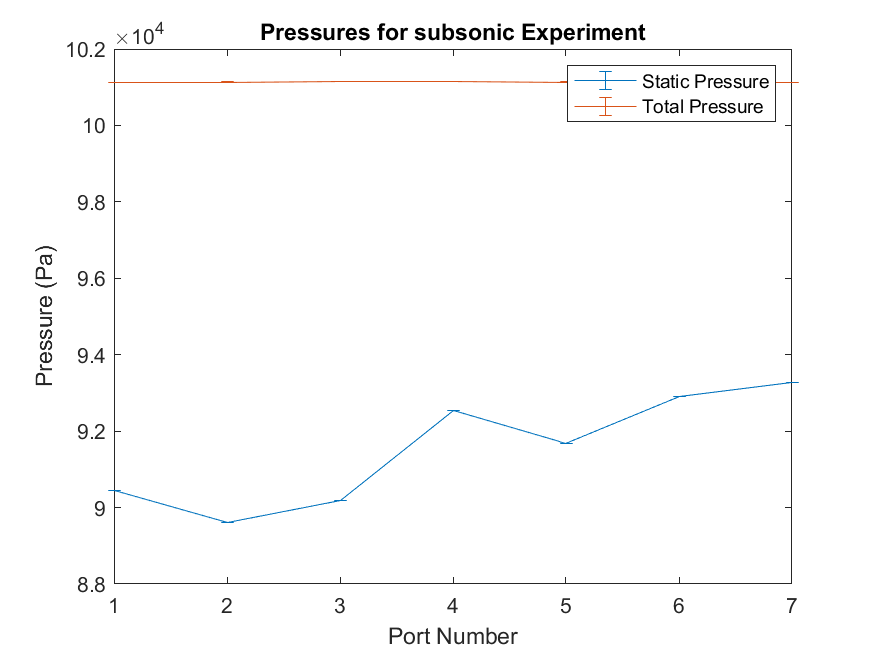
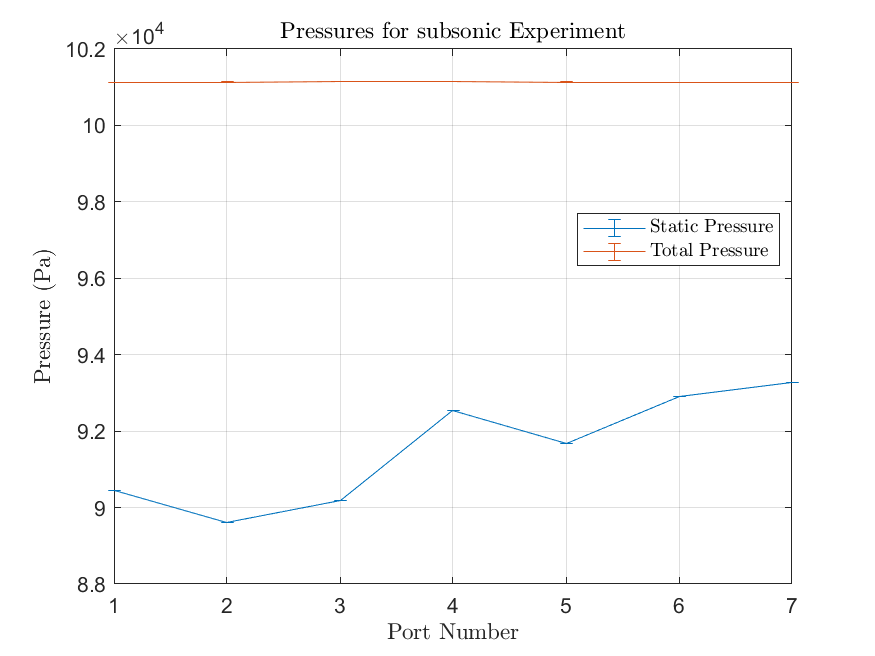
ANALYSIS: Fix supersonic experimental, add subsonic pressure comparison, restyle figures

diff --git a/code/main.m b/code/main.m
@@ -9,17 +9,22 @@ addpath('preprocessing')
 %% Plot Raw Pressures and Uncertainties
 trial = "subsonic"; % Sub- or super-sonic
 
-pressures = get_pressures(trial);
-uncertainties = get_uncertainties(trial);
+pressures = get_pressures("subsonic");
+uncertainties = get_uncertainties("subsonic");
 
 figure
 errorbar(pressures(1,:), uncertainties(1,:))
 hold on
 errorbar(pressures(2,:), uncertainties(2,:))
-xlabel("Port Number")
-ylabel("Pressure (Pa)")
-legend("Static Pressure", "Total Pressure")
-title(sprintf("Pressures for %s Experiment", trial));
+xlabel("Port Number",...
+    "interpreter", "latex")
+ylabel("Pressure (Pa)",...
+    "interpreter", "latex")
+legend("Static Pressure", "Total Pressure",'Location','best',...
+    "interpreter", "latex")
+title(sprintf("Pressures for %s Experiment", trial),...
+    "interpreter", "latex")
+grid on
 saveas(gcf, '..\latex\figures\subsonic_pressure_distributions.png')
 
 trial = "supersonic"; % Sub- or super-sonic
@@ -31,10 +36,15 @@ figure
 errorbar(pressures(1,:), uncertainties(1,:))
 hold on
 errorbar(pressures(2,:), uncertainties(2,:))
-xlabel("Port Number")
-ylabel("Pressure (Pa)")
-legend("Static Pressure", "Total Pressure")
-title(sprintf("Pressures for %s Experiment", trial));
+xlabel("Port Number",...
+    "interpreter", "latex")
+ylabel("Pressure (Pa)",...
+    "interpreter", "latex")
+legend("Static Pressure", "Total Pressure",'Location','best',...
+    "interpreter", "latex")
+title(sprintf("Pressures for %s Experiment", trial),...
+    "interpreter", "latex")
+grid on
 saveas(gcf, '..\latex\figures\supersonic_pressure_distributions.png')
 
 clear % Clear all variables.
@@ -58,20 +68,40 @@ sub_mach_exp = subsonic_experimental(sub_pressure, gamma);
 sub_mach_exp_err = subsonic_experimental_err(sub_pressure, error, gamma);
 
 % Get subsonic theoretical mach and uncertainties.
-[sub_mach_thy, sub_mach_thy_err] = ...
+[sub_mach_thy, sub_mach_thy_err, sub_pressure_thy, sub_pressure_thy_err] = ...
     subsonic_theoretical(sub_pressure, error, gamma);
 
-% Plot data
+% Plot Static Pressure Distribution
+figure
+errorbar(sub_pressure(1, :), error (1,:))
+hold on
+errorbar(sub_pressure_thy, sub_pressure_thy_err)
+title({'Experimental and Theoretical', 'Static Pressures (Subsonic)'},...
+    "interpreter", "latex")
+xlabel("Port Number",...
+    "interpreter", "latex")
+ylabel("Pressure (Pa)",...
+    "interpreter", "latex")
+legend('Experimental','Theoretical','Location','best',...
+    "interpreter", "latex")
+grid on
+saveas(gcf, '..\latex\figures\subsonic_pressure_distribution_exp_vs_thy.png')
+
+% Plot Mach Number Distribution
 figure
 errorbar(sub_mach_exp, sub_mach_exp_err)
 hold on
 errorbar(sub_mach_thy, sub_mach_thy_err)
-title('Experimental and Theoretical Mach Comparison (Subsonic)')
-xlabel("Port Number")
-ylabel("Mach Number")
-legend("Experimental", "Theoretical")
+title('Experimental and Theoretical Mach Comparison (Subsonic)',...
+    "interpreter", "latex")
+xlabel("Port Number",...
+    "interpreter", "latex")
+ylabel("Mach Number",...
+    "interpreter", "latex")
+legend("Experimental", "Theoretical",...
+    "interpreter", "latex")
+grid on
 saveas(gcf, '..\latex\figures\subsonic_mach_distributions.png')
-hold off
 clear % Clear all variables.
 
 %% Supersonic Theoretical and Experimental Data, Plots, and Uncertainties.
@@ -83,36 +113,43 @@ error = get_uncertainties('supersonic');
 % Initialize constants.
 gamma = 1.4; % Ratio of specific heats.
 
-sup_pressure(:,1)
-
 % Get subsonic theoretical mach and uncertainties.
 [sup_mach_thy, sup_mach_thy_err, sup_pressure_thy, sup_pressure_thy_err] = ...
     supersonic_theoretical(sup_pressure(:,1), error(:,1), gamma);
 
+% Plot Static Pressure Distribution
 figure
-plot(sup_pressure(1, :))
+errorbar(sup_pressure(1, :), error(1, :))
 hold on
 errorbar(sup_pressure_thy, sup_pressure_thy_err)
-title('Experimental and Theoretical Pressure Comparison')
-xlabel("Port Number")
-ylabel("Pressure (Pa)")
-legend('Experimental','Theoretical','Location','best')
+title({'Experimental and Theoretical', 'Static Pressures (Supersonic)'},...
+    "interpreter", "latex")
+xlabel("Port Number",...
+    "interpreter", "latex")
+ylabel("Pressure (Pa)",...
+    "interpreter", "latex")
+legend('Experimental','Theoretical','Location','best',...
+    "interpreter", "latex")
+grid on
 saveas(gcf, '..\latex\figures\supersonic_pressure_distribution_exp_vs_thy.png')
-hold off
 
 % Get subsonic experimental mach and uncertainties.
 sup_mach_exp = supersonic_experimental(sup_pressure, gamma);
 sup_mach_exp_err = supersonic_experimental_err(sup_mach_exp, sup_pressure, error, gamma);
 
-% Plot data
+% Plot Mach Number Distributions
 figure
 errorbar(sup_mach_exp, sup_mach_exp_err)
 hold on
 errorbar(sup_mach_thy, sup_mach_thy_err)
-title('Experimental and Theoretical Mach Comparison (Supersonic)')
-xlabel("Port Number")
-ylabel("Mach Number")
-legend("Experimental", "Theoretical", "Location","best")
+title('Experimental and Theoretical Mach Comparison (Supersonic)',...
+    "interpreter", "latex")
+xlabel("Port Number",...
+    "interpreter", "latex")
+ylabel("Mach Number",...
+    "interpreter", "latex")
+legend("Experimental", "Theoretical", "Location","best",...
+    "interpreter", "latex")
+grid on
 saveas(gcf, '..\latex\figures\supersonic_mach_distributions.png')
-hold off 
-%clear% Clear all variables.
+clear% Clear all variables.

diff --git a/code/analysis/subsonic_theoretical.m b/code/analysis/subsonic_theoretical.m
@@ -1,4 +1,4 @@
-function [mach, error] = subsonic_theoretical(pressure, pressure_err, gamma)
+function [mach, mach_err, p, p_err] = subsonic_theoretical(pressure, pressure_err, gamma)
     %{
     Return Mach numbers for the subonic theoretical case.\
 
@@ -20,9 +20,14 @@ function [mach, error] = subsonic_theoretical(pressure, pressure_err, gamma)
     -------
     mach : matrix (1, 7)
         The Mach numbers for the input pressure data.
-    error : matrix (1, 7)
+    mach_err : matrix (1, 7)
         The Mach number uncertainties.
-    
+    p : matrix (1, 7)
+        The pressure for the theoretical data derived from the pressure at
+        port 1
+    p_err : matrix(1, 7)
+        Uncertainties associated with the pressures.
+
     Notes
     -----
     Uses only a single port's pressures for calculations.
@@ -39,7 +44,7 @@ function [mach, error] = subsonic_theoretical(pressure, pressure_err, gamma)
     P_o = pressure(2, i_ref);  % Total pressure, assumed constant
     dP_o = pressure_err(2, i_ref);
     P_1 = pressure(1, i_ref);
-    dP_1 = pressure_err(2, i_ref);
+    dP_1 = pressure_err(1, i_ref);
     
     % Flow velocity at reference port
     U_1 = sqrt(2 * (P_o - P_1)/rho); 
@@ -53,7 +58,7 @@ function [mach, error] = subsonic_theoretical(pressure, pressure_err, gamma)
 
     % Calculate Pressure using incompressible Bernoulli
     P_2 = P_o - 1/2 .* rho .* U_2.^2;
-    dP_2 = rho * U_2 .* dU_2;
+    dP_2 = sqrt(dP_o^2 +  (rho * U_2 .* dU_2).^2);
 
     % Calculate local speed of sound
     a = sqrt(gamma * P_2./rho);
@@ -61,5 +66,8 @@ function [mach, error] = subsonic_theoretical(pressure, pressure_err, gamma)
     
     % Calculate mach number at each port
     mach = U_2 ./ a;
-    error = sqrt((1./a .* dU_2).^2 + (U_2 ./ a.^2 .* da).^2);
+    mach_err = sqrt((1./a .* dU_2).^2 + (U_2 ./ a.^2 .* da).^2);
+    
+    p = P_2;
+    p_err = dP_2;
 end

diff --git a/code/analysis/supersonic_experimental.m b/code/analysis/supersonic_experimental.m
@@ -34,7 +34,14 @@ function mach = supersonic_experimental(pressure, gamma)
     
     % Solve for the Mach numbers.
     temp_mach = zeros(1, 7);
-    for i = 1:7
+    
+    % SPECIAL CASE: i = 1 (subsonic)
+    f = @(M) fun(1, M);
+    temp_mach(1) = fzero(f, 0.6); % Use subsonic intiial guess, otherwise
+                                  % fzero diverges
+    
+    % Other ports use supersonic initial guess
+    for i = 2:7
         f = @(M) fun(i, M);
         temp_mach(i) = fzero(f, 1.2);
     end
